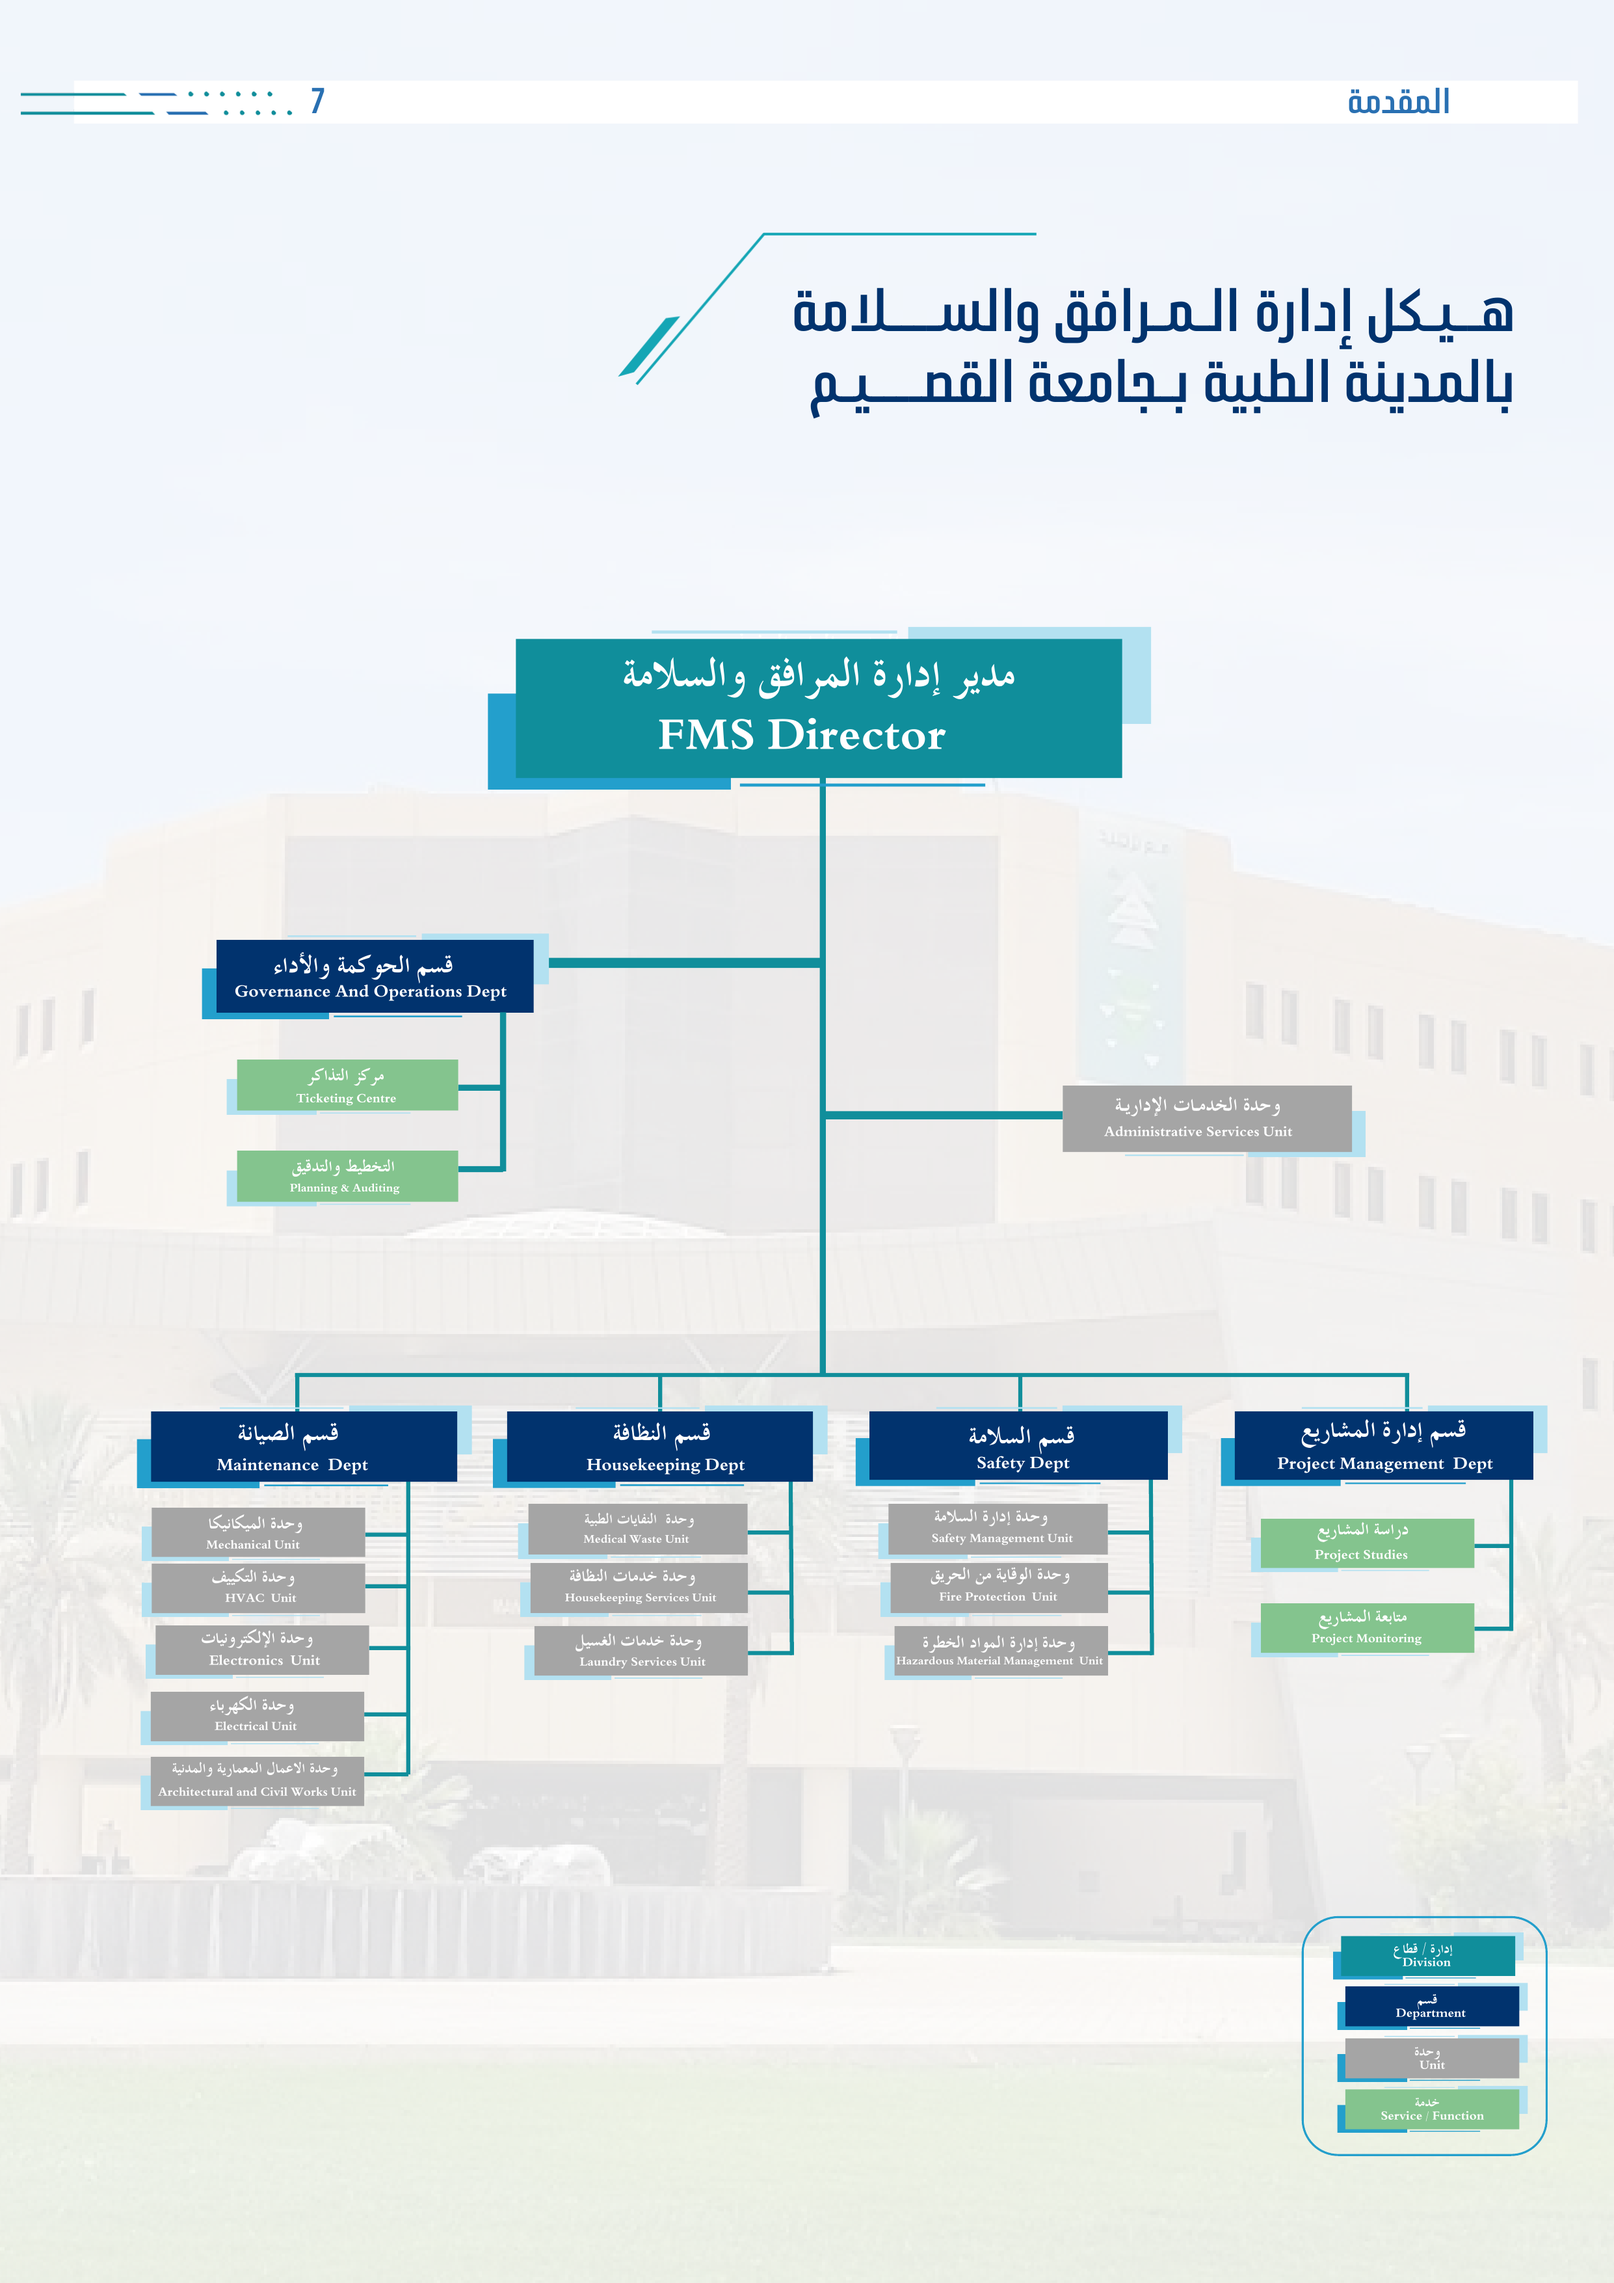
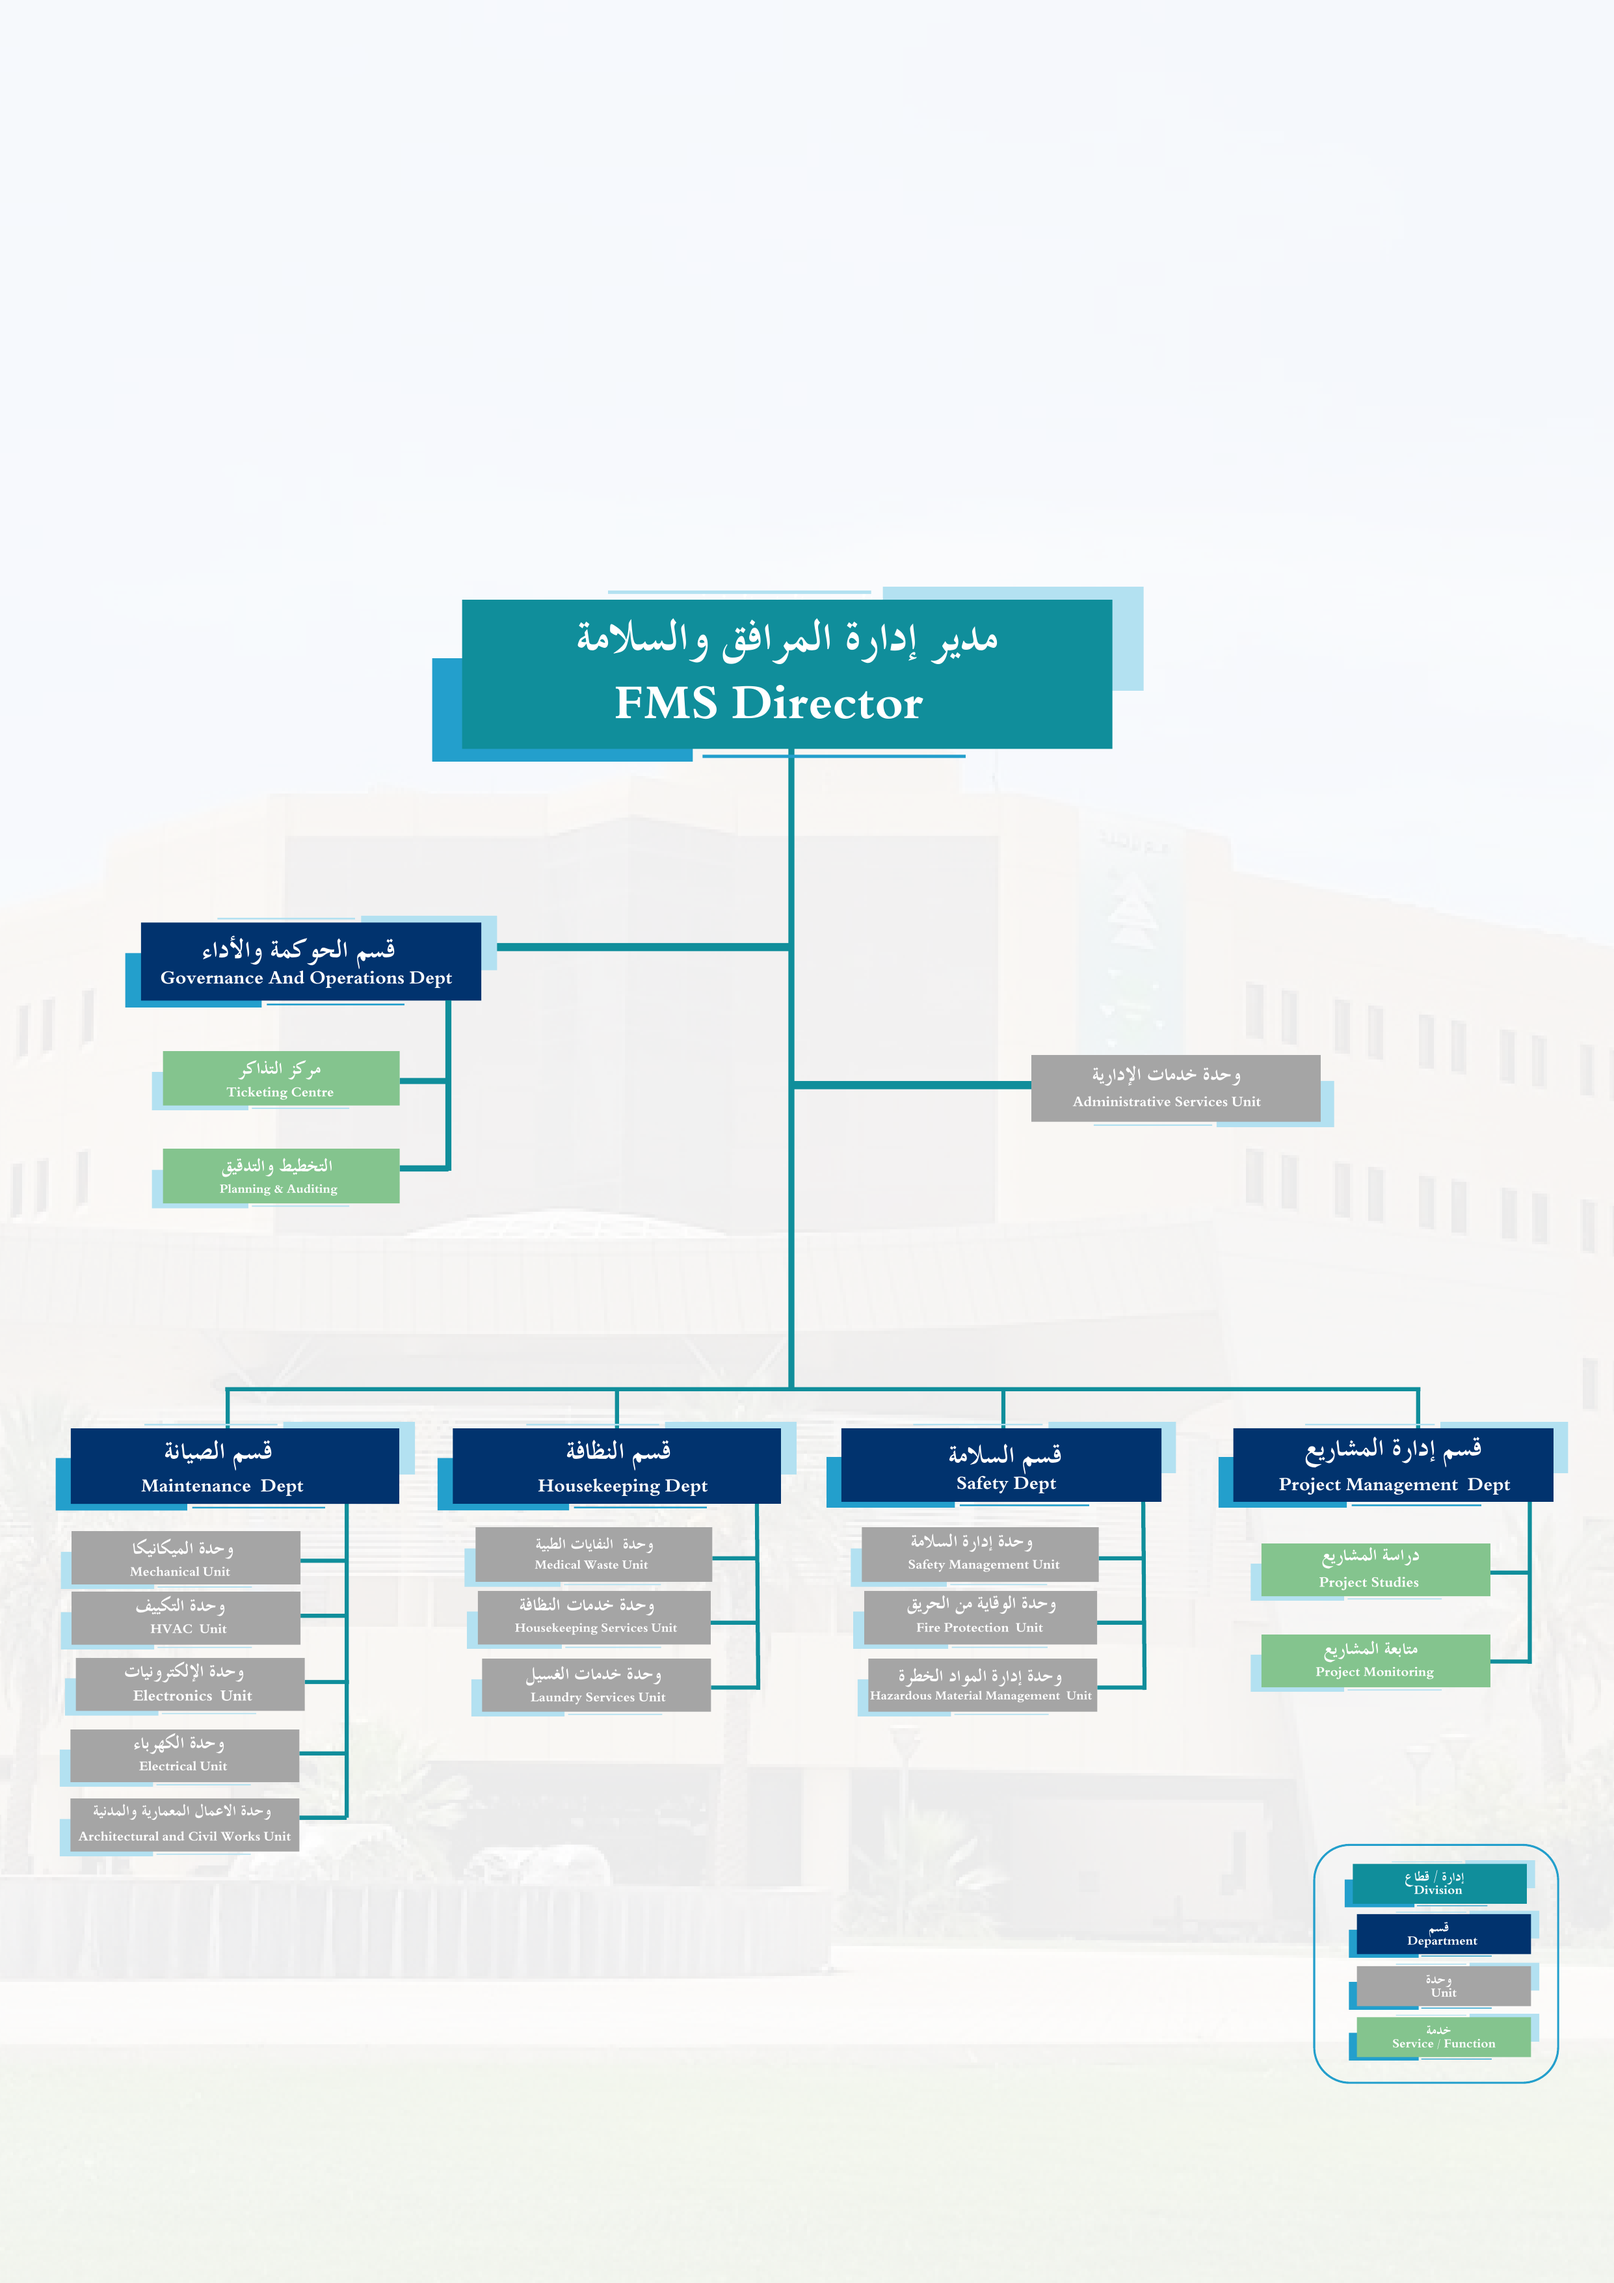
Add files via upload

diff --git a/index.html b/index.html
@@ -787,7 +787,7 @@ window.updateUserBadge = window.updateUserBadge || function(name, role){
 <script src="js/admin.js?v=20260729-v84"></script>
 <script src="js/notifications.js?v=20260729-v84"></script>
 <script src="js/auth.js?v=20260623-emergency-loadfix-v1"></script>
-<script src="js/grc.js?v=20260729-v90"></script>
+<script src="js/grc.js?v=20260729-v91"></script>
 <script src="js/grc-risk-workflow.js?v=20260729-v87"></script>
 <script src="js/grc-chat.js?v=20260727-v67"></script>
 <script src="js/grc-export.js?v=20260729-v88"></script>
